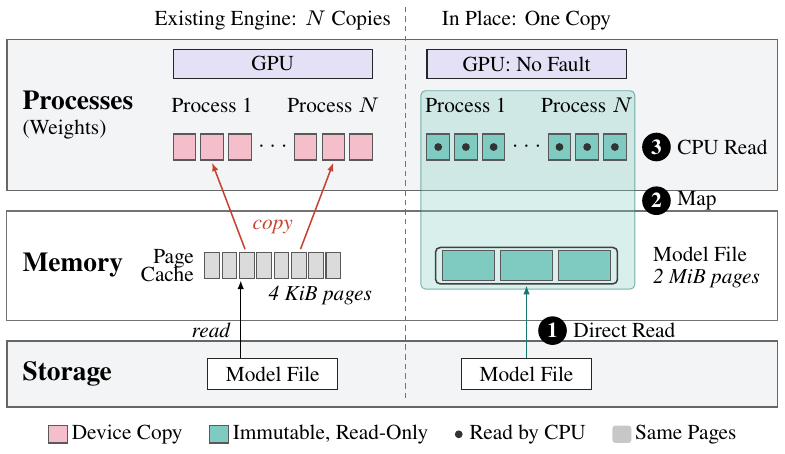
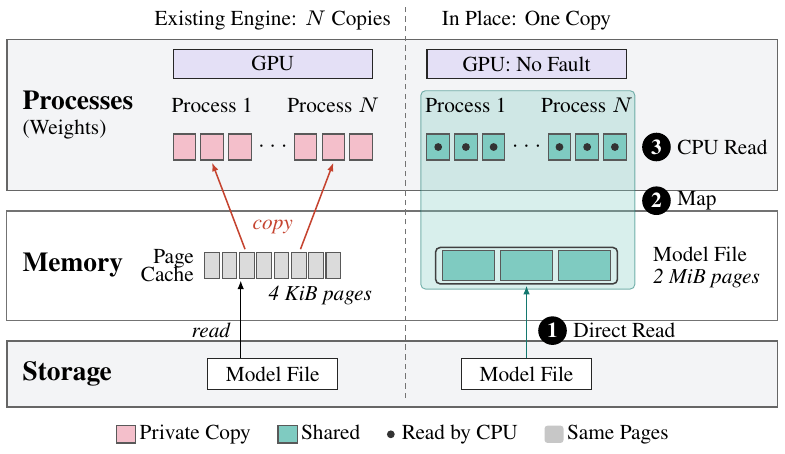
Figures: weight buffer legend, private copy against shared

Changed region(s): [[0.0611, 0.9251, 0.9478, 0.9868]]

diff --git a/figures/src/design_weights.tex b/figures/src/design_weights.tex
@@ -84,6 +84,6 @@
 \node[tag, anchor=west] at (7.7,3.62) {CPU Read};
 
 % legend
-\node[tag] at (4.45,0.3) {\lgdfill{copyc}\,Device Copy\quad\ \lgdfill{sharedc}\,Immutable, Read-Only\quad\ \tikz[baseline=-0.55ex]{\node[circle, fill=black!80, inner sep=0pt, minimum size=0.09cm] {};}\,\,Read by CPU\quad\ \tikz[baseline=-0.55ex]{\fill[black!22, rounded corners=1pt] (0,-0.1) rectangle (0.22,0.1);}\,Same Pages};
+\node[tag] at (4.45,0.3) {\lgdfill{copyc}\,Private Copy\quad\ \lgdfill{sharedc}\,Shared\quad\ \tikz[baseline=-0.55ex]{\node[circle, fill=black!80, inner sep=0pt, minimum size=0.09cm] {};}\,\,Read by CPU\quad\ \tikz[baseline=-0.55ex]{\fill[black!22, rounded corners=1pt] (0,-0.1) rectangle (0.22,0.1);}\,Same Pages};
 \end{tikzpicture}
 \end{document}
